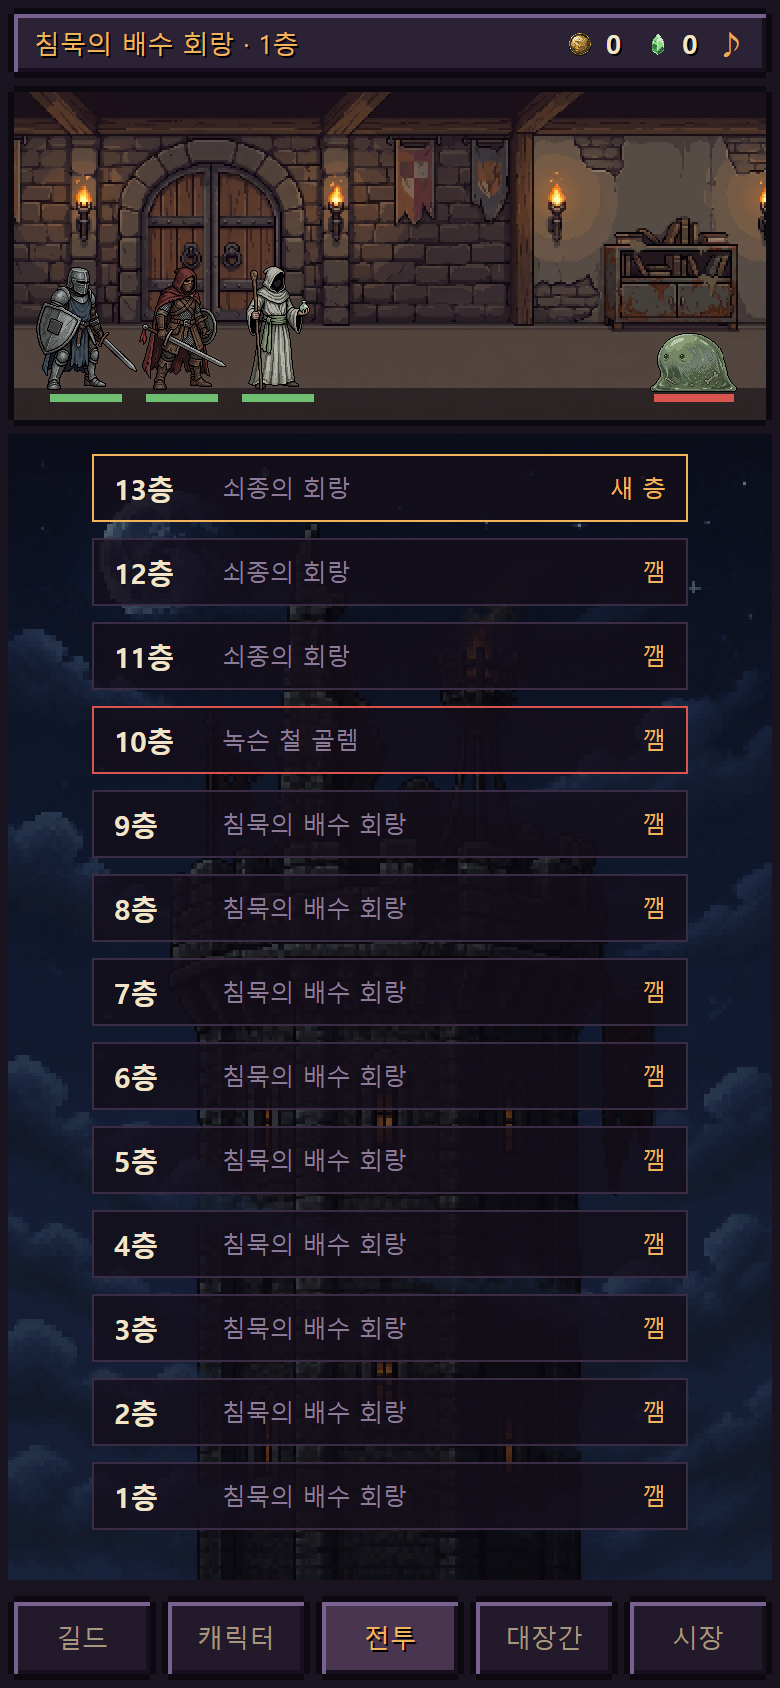
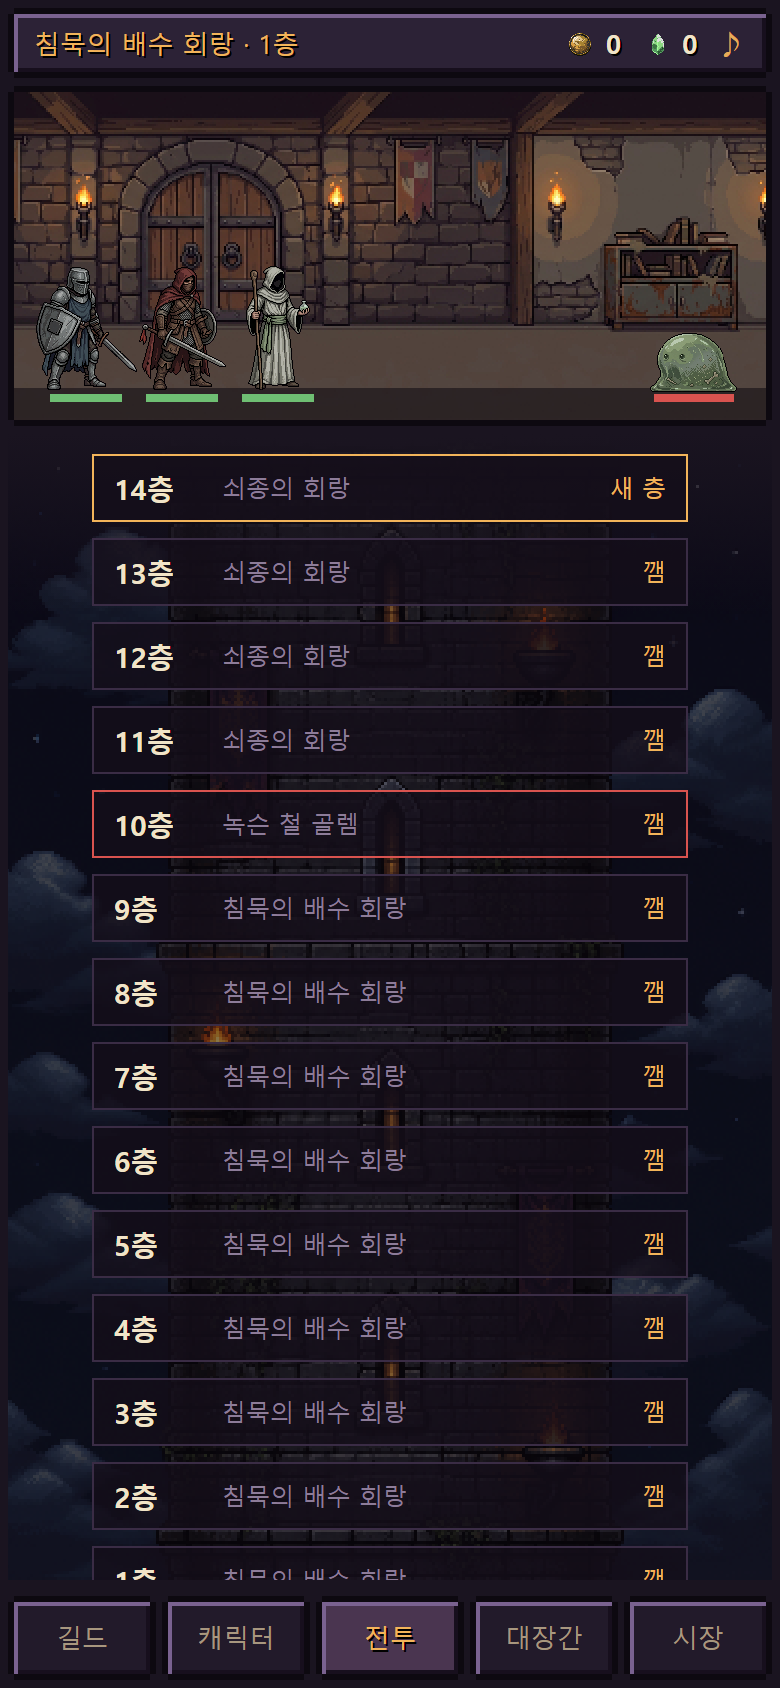
탑을 고친다 — 꼭대기는 끝에만, 전투 중에도 탑으로, 캐시를 끊는다
사장님 "안 바뀌었고 이상해" 가 가리킨 셋:

1. 꼭대기 그림이 13층에서도 떠 있어 다 오른 것처럼 보였고, 층이 적으면
   탑이 포스터처럼 떠 있었다 → 꼭대기는 100층을 열었을 때만. 평소엔 기둥만
   이어 붙이고 위쪽을 안개로 묻는다("아직 위가 더 있다").
2. 전투가 시작되면 맵이 아예 안 떠서 **한번 떠나면 탑을 영영 못 봤다**
   → 전투 화면에 "▲ 탑" 단추. 누르면 멈추고 되돌이도 끊고 맵으로.
3. 서버엔 새 코드가 있는데 폰 앱이 옛 화면을 보여 줬다 → /ash/index.html 에
   no-store. max-age=0 은 "재검증하라"일 뿐이라 안드로이드 웹뷰가 캐시를 먼저 쓴다.

자: 15/15 통과. 이빨 확인 — 꼭대기를 낮은 층에 되살리고 탑 단추를 숨긴
고장 심은 판에서 정확히 그 둘만 실패(2건).

diff --git a/public/ash/index.html b/public/ash/index.html
@@ -67,12 +67,21 @@
   #맵.on{display:block}
   /* 맵이 떠 있을 땐 글 칸을 접는다 — 둘이 공간을 반씩 나눠 가져 맵이 8층쯤에서 잘렸다 */
   #맵.on ~ #log{display:none}
-  /* 탑 그림: 꼭대기 한 장 + 그 아래로 기둥을 이어 붙인다. 크기는 JS가 정수배로 준다(도트가 뭉개진다) */
+  /* 탑 그림: 기둥을 이어 붙인다. 꼭대기 한 장은 **100층을 열었을 때만** — 13층인데 꼭대기가
+     보이면 다 오른 것처럼 보이고, 층이 적을 땐 탑이 포스터처럼 떠 있었다(10-09 사장님 "이상해"). */
   #맵 .탑{position:absolute;inset:0;background-image:url(art/tower-shaft.png);
           background-repeat:repeat-y;image-rendering:pixelated;opacity:.52;overflow:hidden}
   #맵 .꼭대기{display:block;margin:0 auto;image-rendering:pixelated}
+  /* 위로 갈수록 어둠에 묻힌다 — "아직 위가 더 있다" */
+  #맵 .안개{position:absolute;left:0;right:0;top:0;height:90px;pointer-events:none;
+            background:linear-gradient(var(--밤),rgba(26,20,32,0))}
   #맵 .속{position:relative;padding:10px 0}
   #맵 .층들{position:relative}
+  /* 전투 중에 탑으로 돌아가는 길 — 이게 없어서 한번 떠나면 맵을 영영 못 봤다 */
+  #탑버튼{position:absolute;right:10px;top:10px;z-index:5;display:none;
+          background:rgba(20,14,26,.82);border:2px solid var(--빛테);color:var(--금);
+          font:inherit;font-size:12px;padding:4px 9px;cursor:pointer}
+  #탑버튼.on{display:block}
   /* 칸을 좁혀 탑이 양옆으로 보이게 한다 — 꽉 채우면 탑 그림이 벽지가 되고 그냥 목록으로 읽힌다 */
   #맵 .층칸{display:flex;align-items:center;gap:8px;width:78%;margin:0 auto 8px;padding:7px 10px;
             background:rgba(20,14,26,.78);border:1px solid #3a2c45;cursor:pointer}
@@ -162,7 +171,7 @@
   </div>
 
   <div id="battle">
-    <div id="board"><canvas id="cv"></canvas></div>
+    <div id="board"><canvas id="cv"></canvas><button id="탑버튼" type="button">▲ 탑</button></div>
     <!-- 10-09 사장님: 시작하자마자 깨지 말고 **고르고 시작**한다. 멈춰 있을 때만 뜬다. -->
     <div id="맵"></div>
     <div id="log"></div>
@@ -881,6 +890,8 @@ function 윗줄(){
  */
 function 맵그리기(){
   const 칸 = $("#맵"); if (!칸) return;
+  const 탑단추 = $("#탑버튼");
+  if (탑단추) 탑단추.classList.toggle("on", S.진행 && S.탭 === "run");
   칸.classList.toggle("on", !S.진행);
   if (S.진행) return;
   const 끝 = Math.min(100, S.최고층 + 1);
@@ -890,9 +901,12 @@ function 맵그리기(){
   const d = devicePixelRatio || 1, 바탕폭 = 256, 바탕높 = 384;
   const k = Math.max(1, Math.round((칸.clientWidth || 360) * d / 바탕폭));
   const 폭 = 바탕폭 * k / d, 꼭 = 바탕높 * k / d;
-  칸.innerHTML = `<div class="속" style="min-height:${Math.round(꼭 + 30)}px">
-    <div class="탑" style="background-size:${폭}px auto;background-position:center ${꼭}px">
-      <img class="꼭대기" src="art/tower-top.png" style="width:${폭}px" alt=""></div>
+  // 꼭대기는 **끝까지 올랐을 때만** 보인다 — 13층에서 꼭대기가 보이면 다 오른 것처럼 보인다
+  const 끝까지 = 끝 >= 100;
+  칸.innerHTML = `<div class="속">
+    <div class="탑" style="background-size:${폭}px auto;background-position:center ${끝까지 ? 꼭 : 0}px">
+      ${끝까지 ? `<img class="꼭대기" src="art/tower-top.png" style="width:${폭}px" alt="">` : ""}</div>
+    ${끝까지 ? "" : `<div class="안개"></div>`}
     <div class="층들">${층들.map((f) => {
       const 보스 = f % 10 === 0, 새층 = f > S.최고층;
       return `<div class="층칸${보스 ? " 보스" : ""}${새층 ? " 새" : ""}" data-f="${f}">
@@ -902,6 +916,13 @@ function 맵그리기(){
     }).join("")}</div></div>`;
   칸.querySelectorAll("[data-f]").forEach((b) => b.onclick = () => 출발창(Number(b.dataset.f)));
 }
+
+/* 전투를 멈추고 탑으로 — 되돌이도 여기서 끊는다. 이 길이 없어서 한번 떠나면 맵을 못 봤다. */
+$("#탑버튼").onclick = () => {
+  S.진행 = false; S.사냥층 = null;
+  적기("발을 멈추고 탑을 올려다본다.", "");
+  맵그리기(); 윗줄(); 저장();
+};
 
 /**
  * **층을 누르면 — 누구를 데려갈까** (사장님 "층 누르면 출전 시킬 동료 구하고").

diff --git a/next.config.ts b/next.config.ts
@@ -16,7 +16,12 @@ const nextConfig: NextConfig = {
 
   /* 스토어 그림(/store/*)은 다른 출처(Play 콘솔 페이지)에서 fetch 해서 올릴 수 있게 CORS 를 연다 (09-12). 공개 그림뿐이다. */
   async headers() {
-    return [{ source: "/store/:path*", headers: [{ key: "Access-Control-Allow-Origin", value: "*" }] }];
+    return [
+      { source: "/store/:path*", headers: [{ key: "Access-Control-Allow-Origin", value: "*" }] },
+      // 10-09 사장님 "배포 안 됨": 서버엔 새 코드가 있는데 폰 앱(TWA)이 옛 index.html 을 보여 줬다.
+      // max-age=0 은 "재검증하라"일 뿐이라 안드로이드 웹뷰가 캐시를 먼저 쓴다. 통째로 못 쓰게 막는다.
+      { source: "/ash/index.html", headers: [{ key: "Cache-Control", value: "no-store, must-revalidate" }] },
+    ];
   },
 };
 
